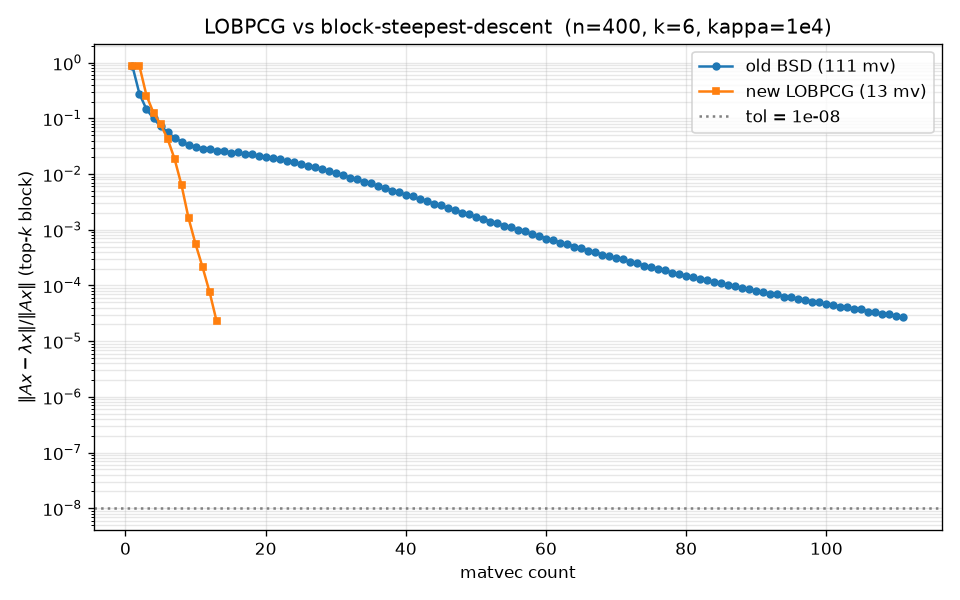
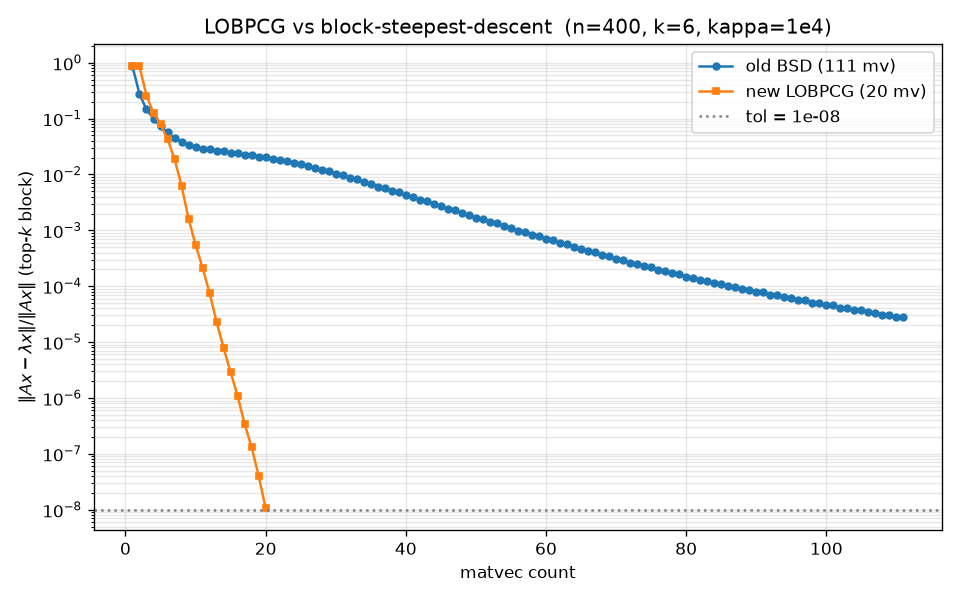
examples: drop duplicate lobpcg_fix_comparison.png
The standalone CPU-only plot was redundant with the
CPU + CUDA combined plot in lobpcg_fix_comparison_all.png. The
script now just prints the tabular summary and points users at
lobpcg_fix_comparison_multi_device.py + _merge.py for the headline
plot.

Also refresh assets/examples/lobpcg_convergence.png with the
post-fix numbers: NEW = 20 matvecs to 3.6e-11 instead of the
pre-fix 13 matvecs to 3.3e-6 (the lower iter count looked nicer
but the eigenpair was wrong by ~5 orders of magnitude, see the
convergence-criterion bug PR #45 fixed).

diff --git a/examples/lobpcg_fix_comparison.py b/examples/lobpcg_fix_comparison.py
@@ -18,8 +18,10 @@ We bench three variants against ``torch.lobpcg`` on a banded SPD:
   v2   = convergence fix + QR swap (this PR)
   ref  = torch.lobpcg(sparse_coo)
 
-Saves ``assets/examples/lobpcg_fix_comparison.png`` (wall-clock +
-precision vs matrix size).
+Prints a tabular summary. The headline plot lives in
+``assets/examples/lobpcg_fix_comparison_all.png``, produced by
+``lobpcg_fix_comparison_multi_device.py`` (multi-device sweep) +
+``lobpcg_fix_comparison_merge.py`` (merge per-device JSON dumps).
 """
 from __future__ import annotations
 
@@ -233,49 +235,10 @@ def main():
             print(f"{n:>5d}  {label:22s}  {t*1000:>9.2f} {err:>10.2e}")
         print()
 
-    # Plot
-    try:
-        import matplotlib
-        matplotlib.use("Agg")
-        import matplotlib.pyplot as plt
-        import os
-        fig, (ax1, ax2) = plt.subplots(1, 2, figsize=(13, 5))
-
-        colors = {"v1 (pre-fix)": "#d62728",
-                  "v1.5 (conv. fix only)": "#ff7f0e",
-                  "v2 (this PR)": "#2ca02c",
-                  "torch.lobpcg": "#1f77b4"}
-
-        for label in ["v1 (pre-fix)", "v1.5 (conv. fix only)",
-                      "v2 (this PR)", "torch.lobpcg"]:
-            style = "o-" if label != "torch.lobpcg" else "s--"
-            ax1.plot(sizes, times[label], style, label=label,
-                     color=colors[label], markersize=7, linewidth=2)
-            ax2.semilogy(sizes, errs[label], style, label=label,
-                         color=colors[label], markersize=7, linewidth=2)
-        ax1.set_xlabel("matrix size n")
-        ax1.set_ylabel("wall-clock (ms)")
-        ax1.set_title("Speed: PR #45 fixes vs torch.lobpcg baseline")
-        ax1.legend(loc="upper left")
-        ax1.grid(True, alpha=0.3)
-
-        ax2.set_xlabel("matrix size n")
-        ax2.set_ylabel(r"$\max_i\, |\lambda_i - \lambda_i^{\rm true}|$")
-        ax2.set_title("Precision: convergence-criterion fix gives true tol=1e-8")
-        ax2.axhline(1e-8, color="gray", linestyle=":", label="tol = 1e-8")
-        ax2.legend(loc="upper left")
-        ax2.grid(True, alpha=0.3, which="both")
-
-        out_dir = os.path.normpath(os.path.join(
-            os.path.dirname(os.path.abspath(__file__)),
-            "..", "assets", "examples"))
-        os.makedirs(out_dir, exist_ok=True)
-        out = os.path.join(out_dir, "lobpcg_fix_comparison.png")
-        fig.tight_layout()
-        fig.savefig(out, dpi=120)
-        print(f"\nplot saved to {out}")
-    except ImportError:
-        print("\n(matplotlib not installed; skipping plot)")
+    print("\nFor the headline CPU + CUDA combined plot, run:")
+    print("  python examples/lobpcg_fix_comparison_multi_device.py   # collect")
+    print("  python examples/lobpcg_fix_comparison_merge.py          # render")
+    print("Plot lands at assets/examples/lobpcg_fix_comparison_all.png")
 
 
 if __name__ == "__main__":